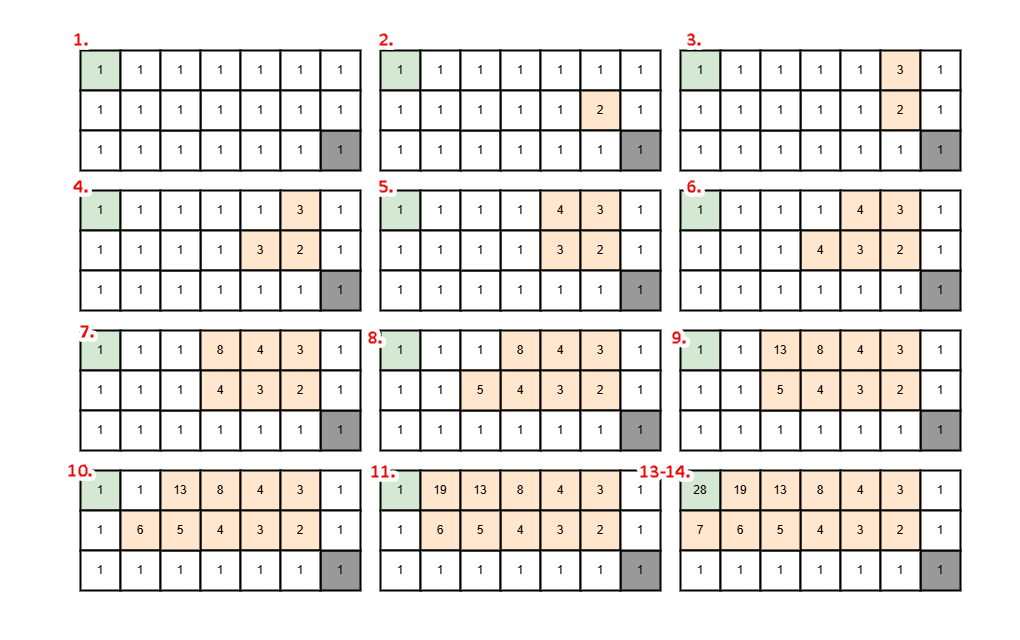
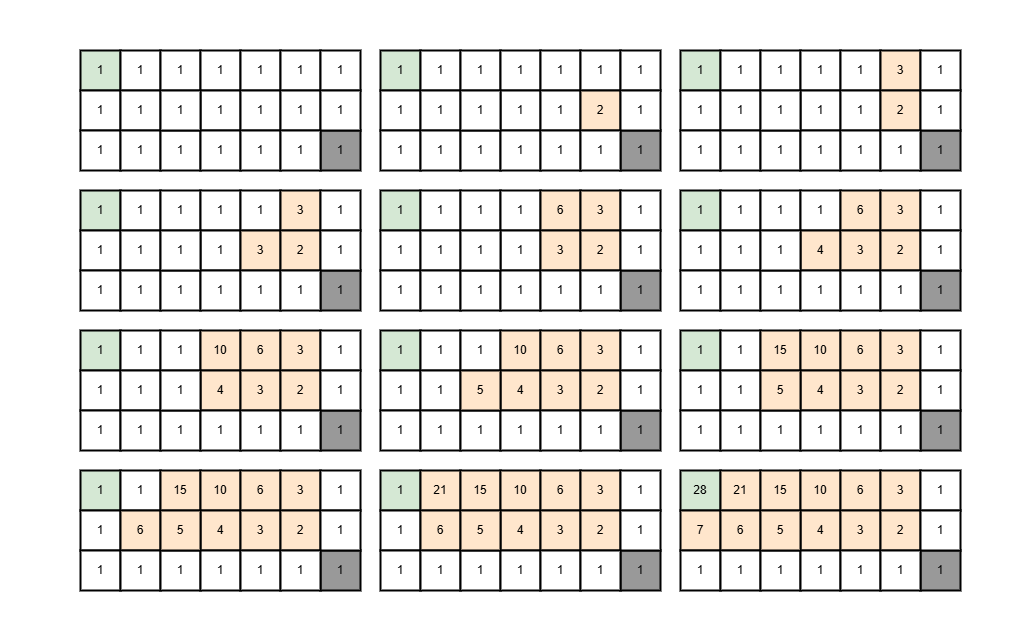
dp

diff --git a/source/_posts/dp-1.md b/source/_posts/dp-1.md
@@ -191,7 +191,49 @@ public:
 
 ## 步驟四: Iteration + Tabulation [Optimized]
 
-(未完待續)
+> 不一定每次都需要到此步驟，如果面試有到前三步驟，那就已經很好了
+
+本步驟的 **目標在於降低空間複雜度** ，經過前幾個步驟，時間複雜度應該已經是 Optimized了。之所以還有機會繼續最佳化空間複雜度，是因為儘管我們前面建立了 m x n 的網格來迭代儲存路徑數量， **但實際上我們並不一定要一次持續存取整個表格。**
+
+如果觀察到目前為止建立的遞迴關係 (可以觀察上面的走訪過程圖)，**對任意格來說，所需要的格子只有它的正下方以及正右方的格子**，因此在宣告陣列時僅需要 `m=2` 的 2 x n 陣列 (對於 Unique Paths 這題僅需這樣大小的空間就好)。 那這樣又要如何存放路徑值呢?
+
+這裡的起點一樣會是 `[m-2][n-2]`，也就是步驟三的倒數第二列跟第二行的那格，可以想像成是擷取了原先 m x n 表格中的最下面兩列，並且一樣進行迭代，迭代規則就如同剛剛提到的，對於任意格來說只需要他的正下方以及正右方的格子，因此對於第一列 (`i=0`) 來說，規則會是 $F(m, n) = F(m+1, n) + F(m,n+1) $，一旦第一列算完後，那用來計算第一列的第二列 (應該都會先是1) 就沒有利用價值了，這時候就將第一列的數值全部複製到第二列，用來計算新的第一列，跟著一樣的迭代規則走，最後的 $F(0, 0)$ 就會是整體路徑數量。
+
+![](/img/LeetCode/dp/tab2.png)
+
+
+```cpp
+class Solution {
+public:
+    int uniquePaths(int m, int n) {
+        // init a m x n 2D vector with value 1
+        vector<vector<int>> dp(2, vector<int>(n, 1));
+        
+        for(int i=m-2; i>=0; i--){
+            for(int j=n-2; j>=0; j--){
+                // Handloe first row
+                // (m+n) = (cell below) + (cell on the right)
+                dp[0][j] = dp[1][j] + dp[0][j+1];
+            }
+            // Move to second row
+            dp[1] = dp[0];
+        }
+        return dp[0][0];
+    }
+};
+```
+
+這裡可以比對步驟三以及步驟四之間空間複雜度的差異，步驟三因為要存放整張表格，因此空間複雜度會是 $O(n \times m)$，而步驟四僅存放 $2*n$ 個表格，因此空間複雜度會是$O(2 \times n) = O(n)$。
+
+這裡也可以從結果中觀察差異:
+
+*步驟三*
+![](/img/LeetCode/dp/result1.png)
+
+*步驟四*
+![](/img/LeetCode/dp/result2.jpeg)
+
+
 
 # Reference
 https://medium.com/@al.eks/the-ultimate-guide-to-dynamic-programming-65865ef7ec5b
